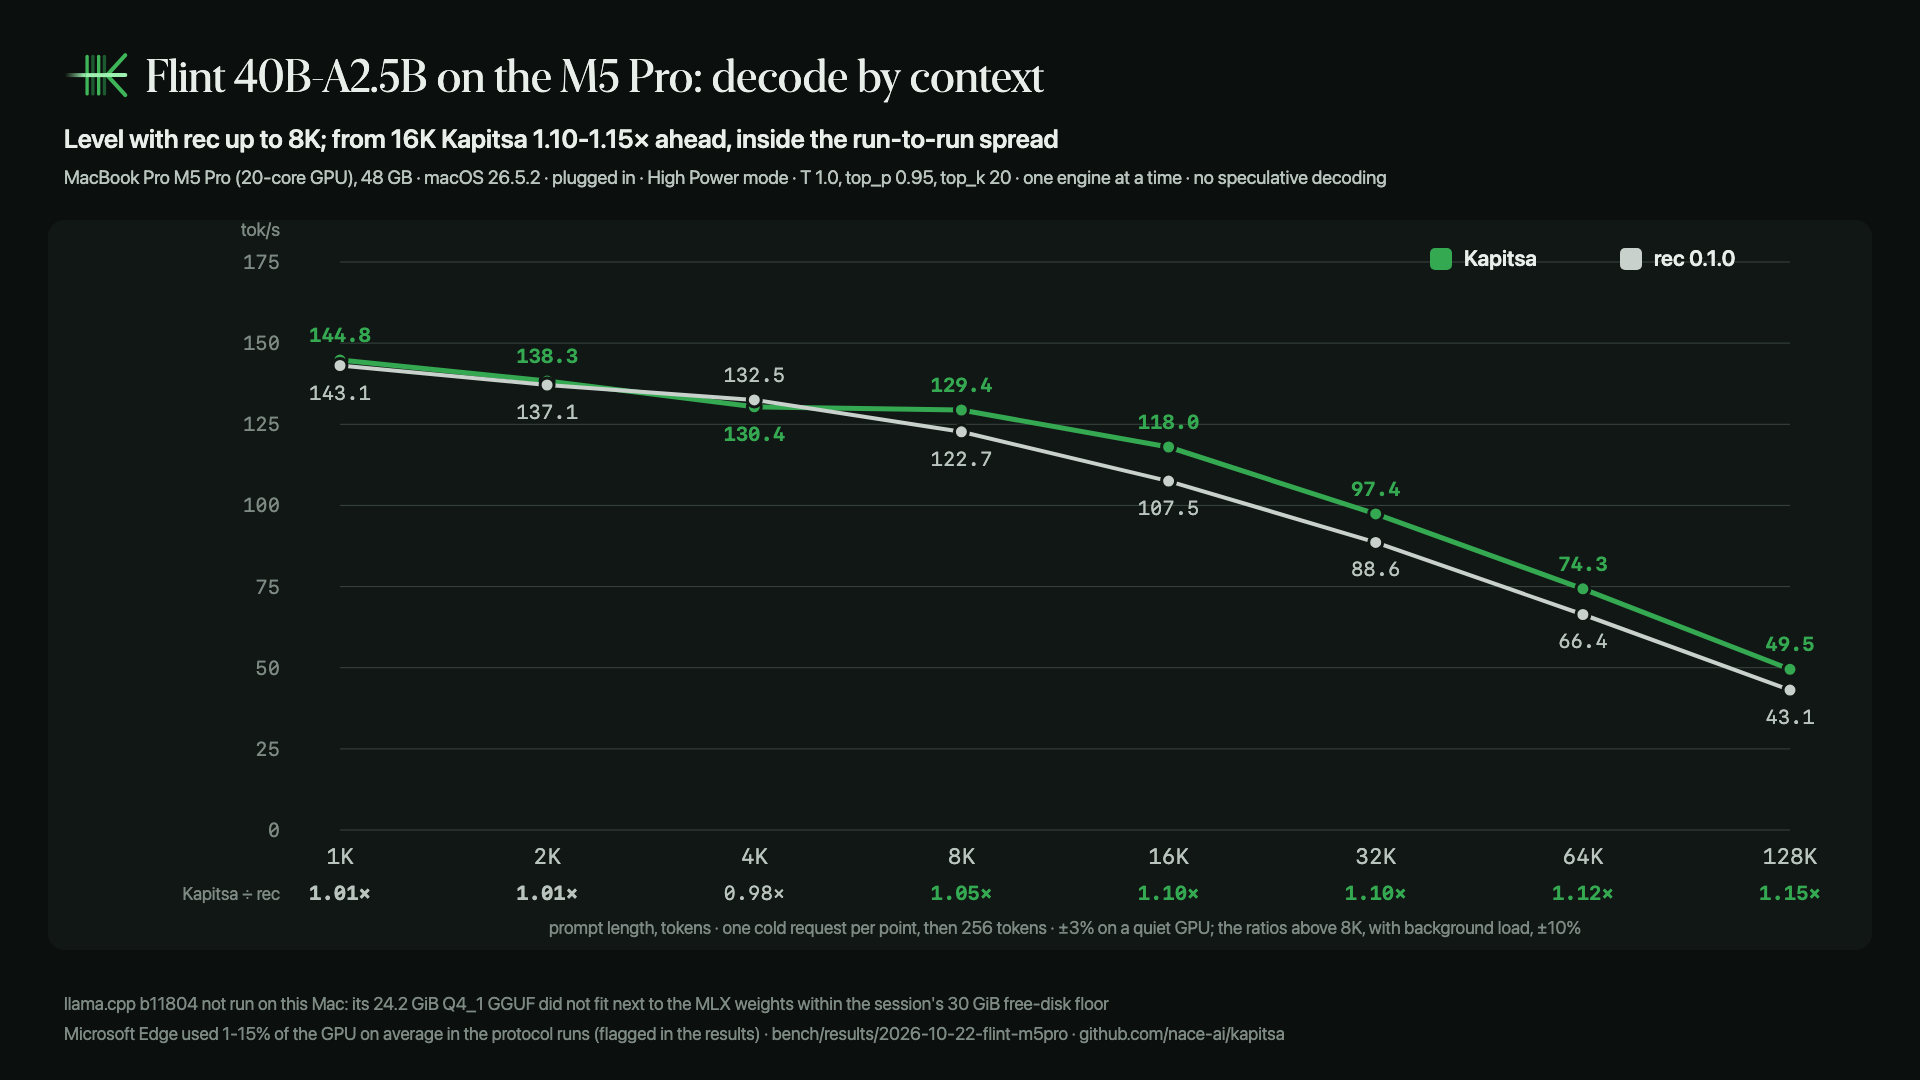
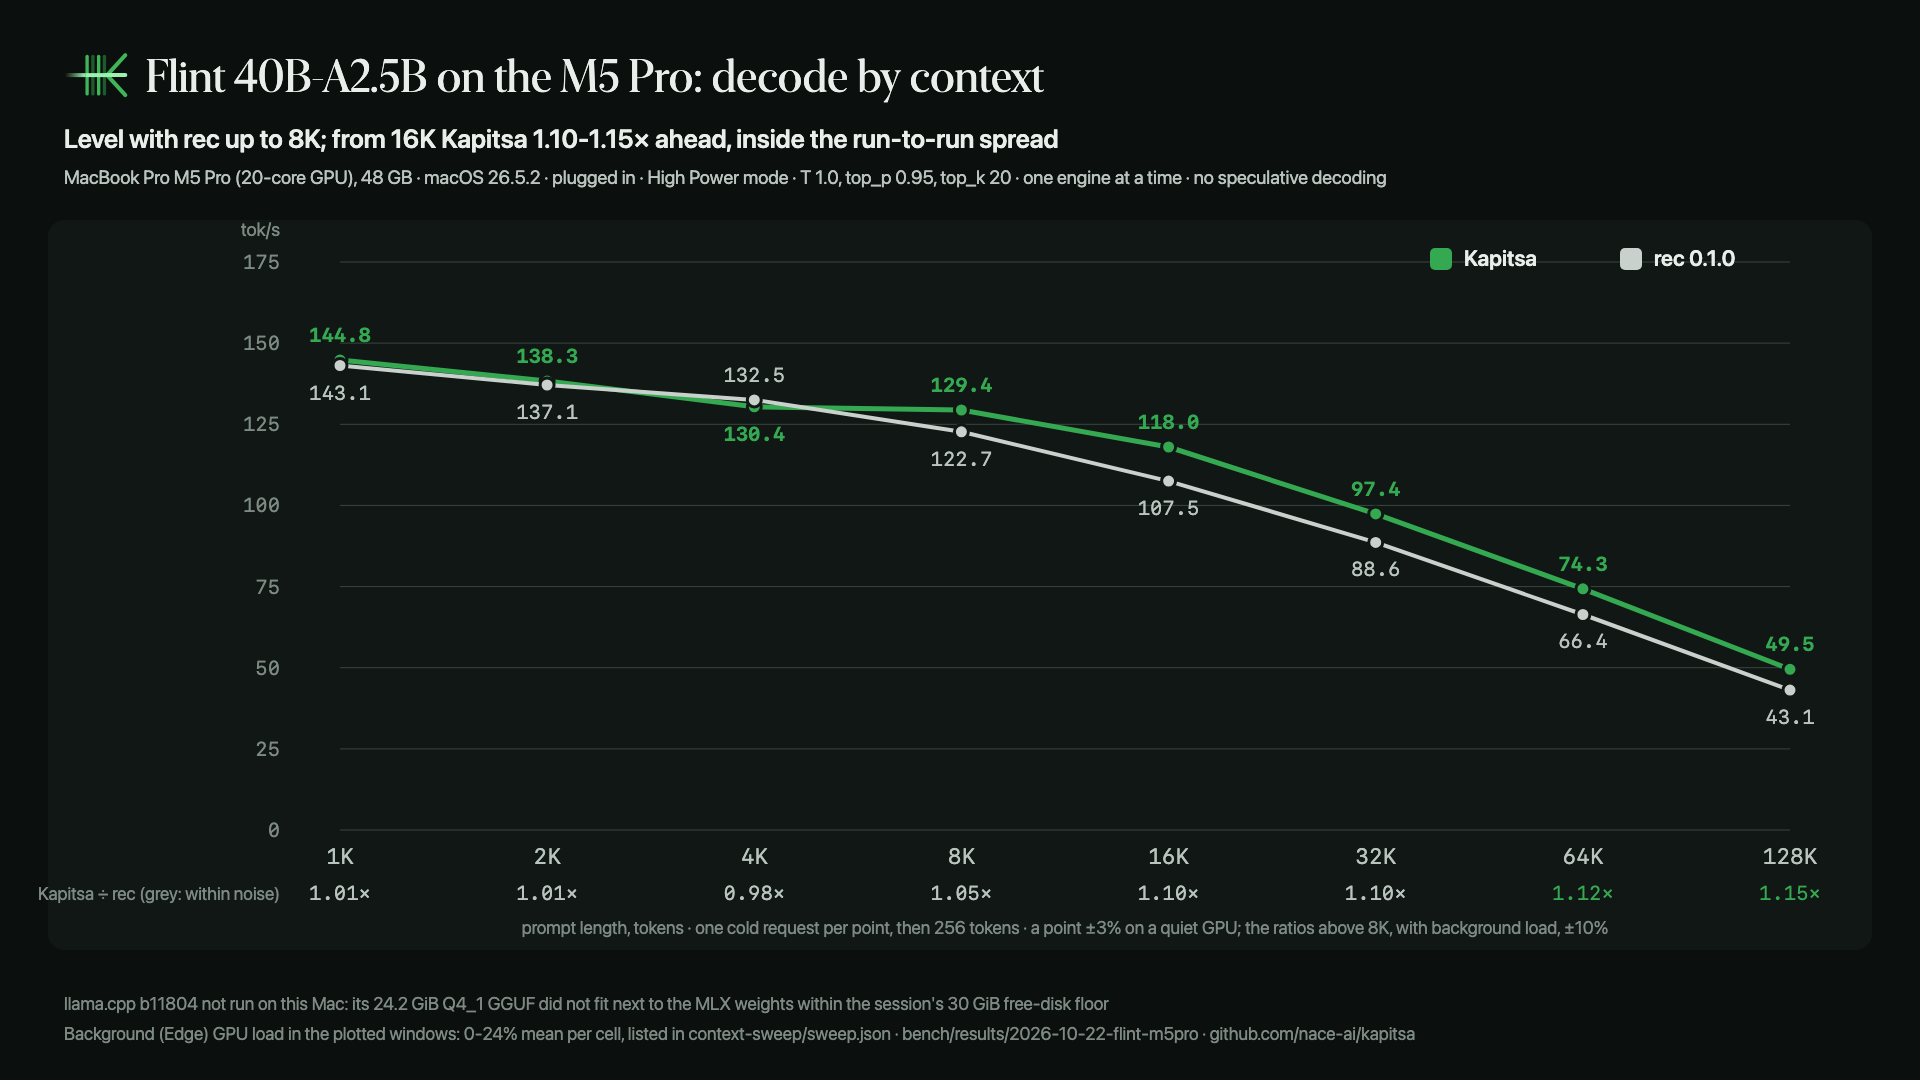
Flint M5 Pro charts: ties and ratio colours follow the stated noise; separate sweep footer; lower-is-better labels

Changed region(s): [[0.0312, 0.9472, 0.75, 0.9778], [0.2812, 0.825, 0.8438, 0.8861], [0.0312, 0.825, 0.1562, 0.8556]]

diff --git a/bench/results/2026-10-22-flint-m5pro/charts/flint_charts.py b/bench/results/2026-10-22-flint-m5pro/charts/flint_charts.py
@@ -20,10 +20,12 @@ SIZES = sorted(int(s) for s in SWEEP["kapitsa"])
 ENG = [("Kapitsa", "kapitsa", T["kap"]), ("rec 0.1.0", "rec", "#C9D1CC")]
 SETUP = ("MacBook Pro M5 Pro (20-core GPU), 48 GB · macOS 26.5.2 · plugged in · High Power mode · "
          "T 1.0, top_p 0.95, top_k 20 · one engine at a time · no speculative decoding")
-FOOT = ["llama.cpp b11804 not run on this Mac: its 24.2 GiB Q4_1 GGUF did not fit next to the MLX weights within the "
-        "session's 30 GiB free-disk floor",
-        "Microsoft Edge used 1-15% of the GPU on average in the protocol runs (flagged in the results) · "
-        "bench/results/2026-10-22-flint-m5pro · github.com/nace-ai/kapitsa"]
+LLAMA = ("llama.cpp b11804 not run on this Mac: its 24.2 GiB Q4_1 GGUF did not fit next to the MLX weights within the "
+         "session's 30 GiB free-disk floor")
+FOOT = [LLAMA, "Microsoft Edge used 3-10% of the GPU on average per protocol run (all flagged in the results) · "
+               "bench/results/2026-10-22-flint-m5pro · github.com/nace-ai/kapitsa"]
+FOOT_SWEEP = [LLAMA, "Background (Edge) GPU load in the plotted windows: 0-24% mean per cell, listed in "
+                     "context-sweep/sweep.json · bench/results/2026-10-22-flint-m5pro · github.com/nace-ai/kapitsa"]
 
 
 def k(n):
@@ -46,30 +48,31 @@ def frame(title, sub, body, foot=FOOT):
 
 
 def headline():
-    rows = [  # (label, kapitsa, rec, higher is better, format)
-        ("Decode, short context (tok/s, T 1.0)", 145.7, 144.9, True, "{:.1f}"),
-        ("Decode, short context, greedy (tok/s)", 148.8, 151.9, True, "{:.1f}"),
-        ("Prefill, 4K-token prompt (tok/s)", 1374, 2138, True, "{:,.0f}"),
-        ("Prefill, 16K-token prompt (tok/s)", 1108, 1941, True, "{:,.0f}"),
+    rows = [  # (label, kapitsa, rec, higher is better, format, tie tolerance)
+        # tolerance: two ±3% means, ±6%; the README gives the ratios above 8K (one loaded request each) as ±10%
+        ("Decode, short context (tok/s, T 1.0)", 145.7, 144.9, True, "{:.1f}", 0.06),
+        ("Decode, short context, greedy (tok/s)", 148.8, 151.9, True, "{:.1f}", 0.06),
+        ("Prefill, 4K-token prompt (tok/s)", 1374, 2138, True, "{:,.0f}", 0.06),
+        ("Prefill, 16K-token prompt (tok/s)", 1108, 1941, True, "{:,.0f}", 0.06),
         ("Decode at 128K context (tok/s, one request)", SWEEP["kapitsa"]["131072"]["decode"],
-         SWEEP["rec"]["131072"]["decode"], True, "{:.1f}"),
+         SWEEP["rec"]["131072"]["decode"], True, "{:.1f}", 0.10),
         ("Prefill at 128K (tok/s, one request)", SWEEP["kapitsa"]["131072"]["prefill"],
-         SWEEP["rec"]["131072"]["prefill"], True, "{:,.0f}"),
-        ("Follow-up turn at 4K, time to first token (s)", 0.12, 0.28, False, "{:.2f} s"),
-        ("Peak memory (GB)", 23.3, 29.1, False, "{:.1f} GB"),
+         SWEEP["rec"]["131072"]["prefill"], True, "{:,.0f}", 0.10),
+        ("Follow-up turn at 4K, first token (s, lower is better)", 0.12, 0.28, False, "{:.2f} s", 0.06),
+        ("Peak memory (GB, lower is better)", 23.3, 29.1, False, "{:.1f} GB", 0.06),
     ]
-    x0, lw, bx, bw = 64, 600, 690, 1000
+    x0, lw, bx, bw = 64, 600, 690, 940
     y, rh = 250, 86
     s = []
     for j, (name, _, c) in enumerate(ENG):
         s += [R.rect(bx + j * 220, 214, 22, 22, 5, c), R.text(bx + j * 220 + 34, 232, name, "sans-sb", 22, T["ink"])]
-    for i, (label, kv, rv, hi, f) in enumerate(rows):
+    for i, (label, kv, rv, hi, f, tol) in enumerate(rows):
         yy = y + i * rh
         s.append(R.rect(x0 - 16, yy, W - 2 * (x0 - 16), rh - 10, 14, T["panel"]))
         s.append(R.text(x0, yy + rh / 2 + 3, label, "sans-m", 25, T["ink"]))
         m = max(kv, rv)
         win = (kv >= rv) if hi else (kv <= rv)
-        tie = abs(kv - rv) / m < 0.02
+        tie = abs(kv - rv) / m <= tol
         for j, (v, (_, _, c)) in enumerate(zip((kv, rv), ENG)):
             by = yy + 12 + j * 32
             w = bw * v / m
@@ -79,8 +82,10 @@ def headline():
                             T["ink"] if best else T["ink2"]))
         if tie:
             s.append(R.text(W - 64, yy + rh / 2 + 3, "tie", "sans-sb", 20, T["muted"], "end"))
+        elif tol > 0.06:
+            s.append(R.text(W - 64, yy + rh / 2 + 3, "ratio ±10%", "sans-sb", 20, T["muted"], "end"))
     return frame("Flint 40B-A2.5B on the M5 Pro: Kapitsa vs rec 0.1.0",
-                 "Decode is a tie; rec reads prompts 1.4-2.3× as fast; Kapitsa starts follow-up turns 2.4× sooner",
+                 "Decode is a tie; rec reads prompts 1.4-2.3× as fast; Kapitsa starts follow-up turns sooner and uses less memory",
                  "".join(s))
 
 
@@ -100,11 +105,12 @@ def by_context(metric, unit, title, sub):
     for i, n in enumerate(SIZES):
         s.append(R.text(X(i), cy1 + 34, k(n), "mono", 22, T["ink2"], "middle"))
         r = vals["kapitsa"][i] / vals["rec"][i]
-        s.append(R.text(X(i), cy1 + 70, f"{r:.2f}×", "mono-b" if r >= 1 else "mono", 20,
-                        T["kap"] if r >= 1.02 else (T["ink2"] if r > 0.98 else ORANGE), "middle"))
-    s.append(R.text(cx0 - 60, cy1 + 70, "Kapitsa ÷ rec", "sans", 18, T["muted"], "end"))
-    s.append(R.text((cx0 + cx1) / 2, cy1 + 104, "prompt length, tokens · one cold request per point, then 256 tokens · ±3% on a "
-                    "quiet GPU; the ratios above 8K, with background load, ±10%", "sans", 18, T["muted"], "middle"))
+        tol = 0.06 if n <= 8192 else 0.10  # two ±3% cells up to 8K; above 8K the README's ±10% for the ratios
+        s.append(R.text(X(i), cy1 + 70, f"{r:.2f}×", "mono", 20,
+                        T["kap"] if r > 1 + tol else (ORANGE if r < 1 - tol else T["ink2"]), "middle"))
+    s.append(R.text(cx0 - 60, cy1 + 70, "Kapitsa ÷ rec (grey: within noise)", "sans", 18, T["muted"], "end"))
+    s.append(R.text((cx0 + cx1) / 2, cy1 + 104, "prompt length, tokens · one cold request per point, then 256 tokens · a point ±3% on a quiet GPU; "
+                    "the ratios above 8K, with background load, ±10%", "sans", 18, T["muted"], "middle"))
     for j, (name, e, c) in enumerate(ENG):
         pts = " ".join(f"{X(i):.1f},{Y(v):.1f}" for i, v in enumerate(vals[e]))
         s.append(f'<polyline points="{pts}" fill="none" stroke="{c}" stroke-width="{5 if j == 0 else 4}" '
@@ -118,7 +124,7 @@ def by_context(metric, unit, title, sub):
                             c if j == 0 else T["ink2"], "middle"))
         s += [R.rect(cx1 - 360 + j * 190, cy0 - 14, 22, 22, 5, c),
               R.text(cx1 - 326 + j * 190, cy0 + 4, name, "sans-sb", 22, T["ink"])]
-    return frame(title, sub, "".join(s))
+    return frame(title, sub, "".join(s), FOOT_SWEEP)
 
 
 ORANGE = R.ORANGE
